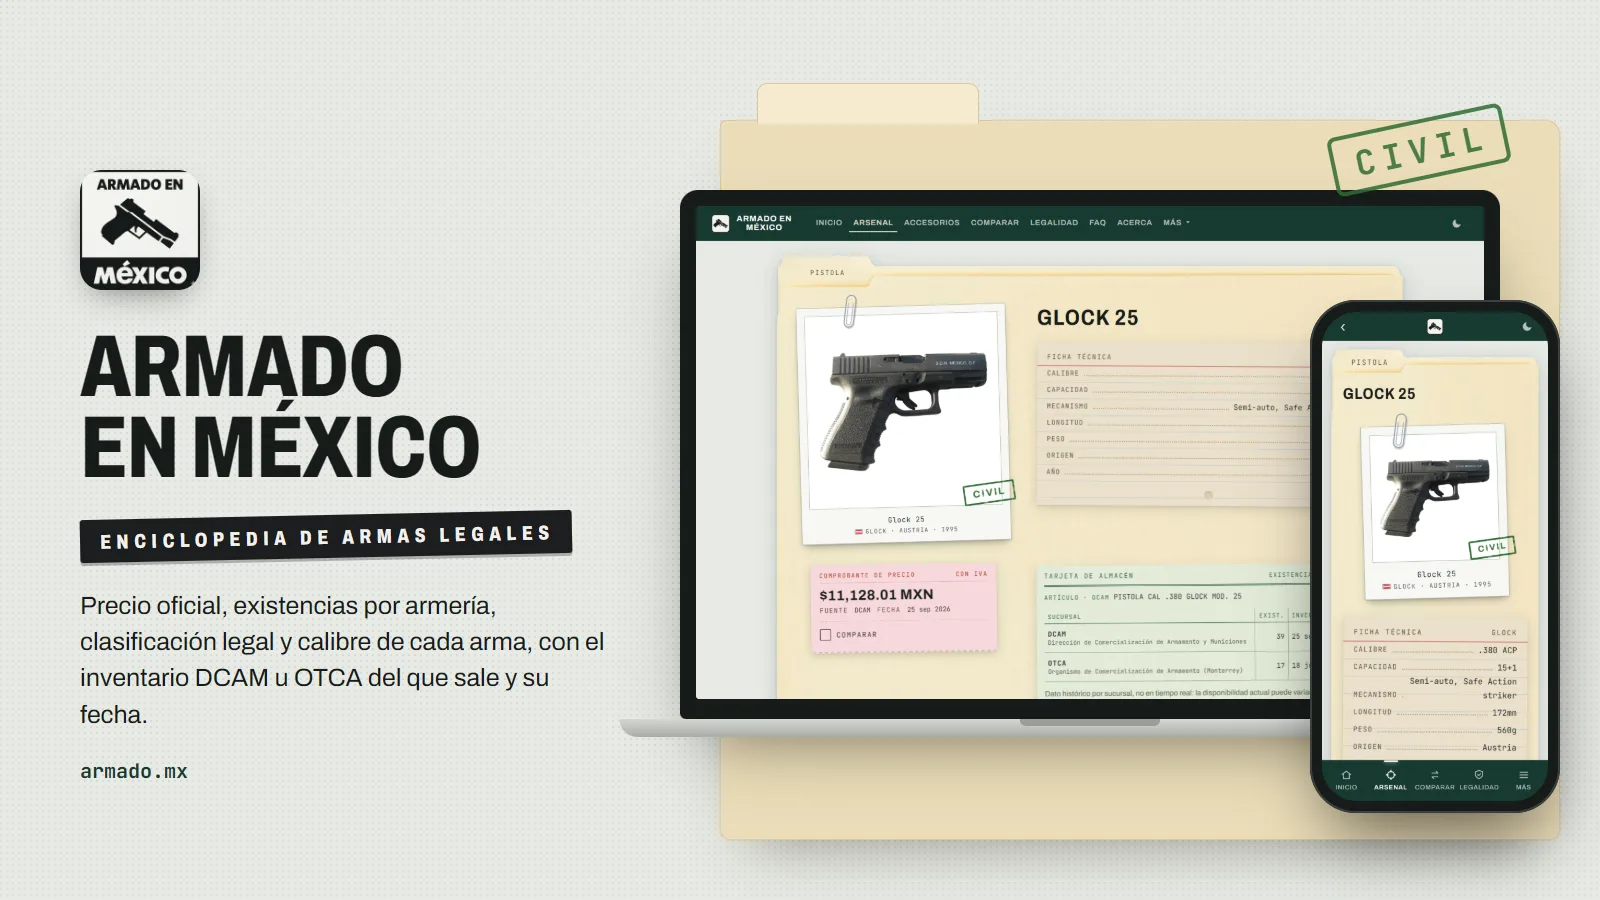
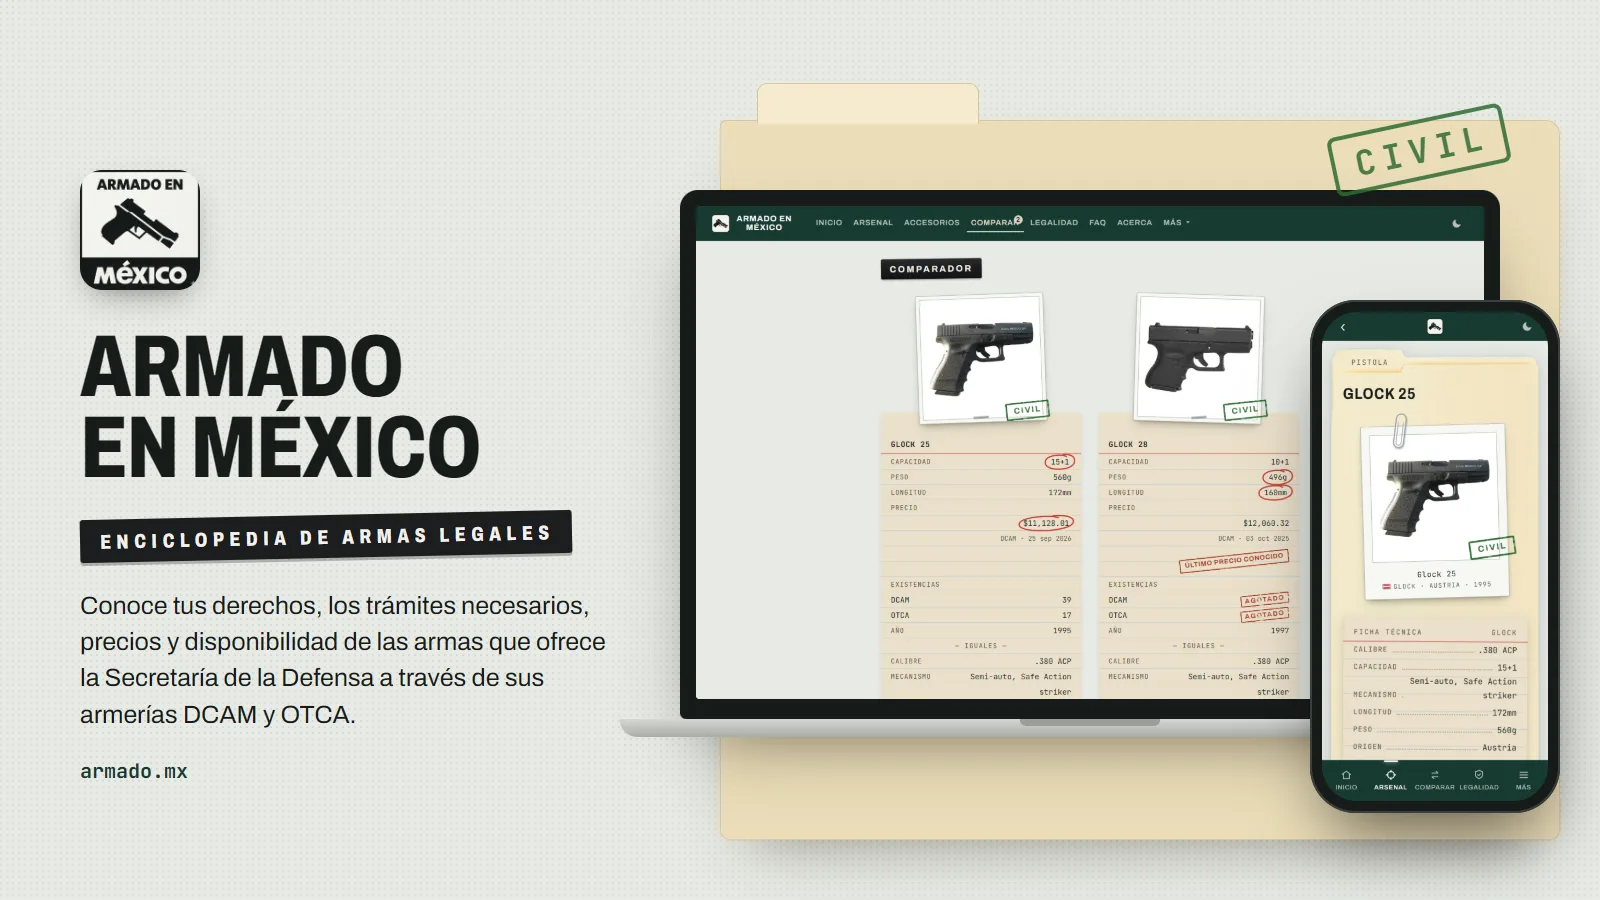
docs(readme): portada con el comparador Glock 25 vs Glock 28 y el texto de derechos y trámites

Changed region(s): [[0.4688, 0.28, 0.875, 0.7778], [0.0312, 0.6533, 0.375, 0.8089], [0.5938, 0.7156, 0.625, 0.7467]]

diff --git a/README.md b/README.md
@@ -1,5 +1,5 @@
 <div align="center">
-  <a href="https://armado.mx"><img src="docs/capturas/readme/portada.webp" alt="Armado en México: la ficha de la Glock 25 en escritorio y en el teléfono"></a>
+  <a href="https://armado.mx"><img src="docs/capturas/readme/portada.webp" alt="Armado en México: la Glock 25 frente a la Glock 28 en el comparador de escritorio y la ficha de la Glock 25 en el teléfono"></a>
   <p><strong>Enciclopedia divulgativa de armas legales en México</strong><br>Inventario oficial DCAM y OTCA · por Armas M&amp;S</p>
   <p><a href="https://armado.mx"><strong>armado.mx</strong></a> · <a href="#ficha-de-arma">Qué hace</a> · <a href="#colaborar-con-reportes">Colaborar</a> · <a href="#licencia">Licencia</a></p>
 </div>
